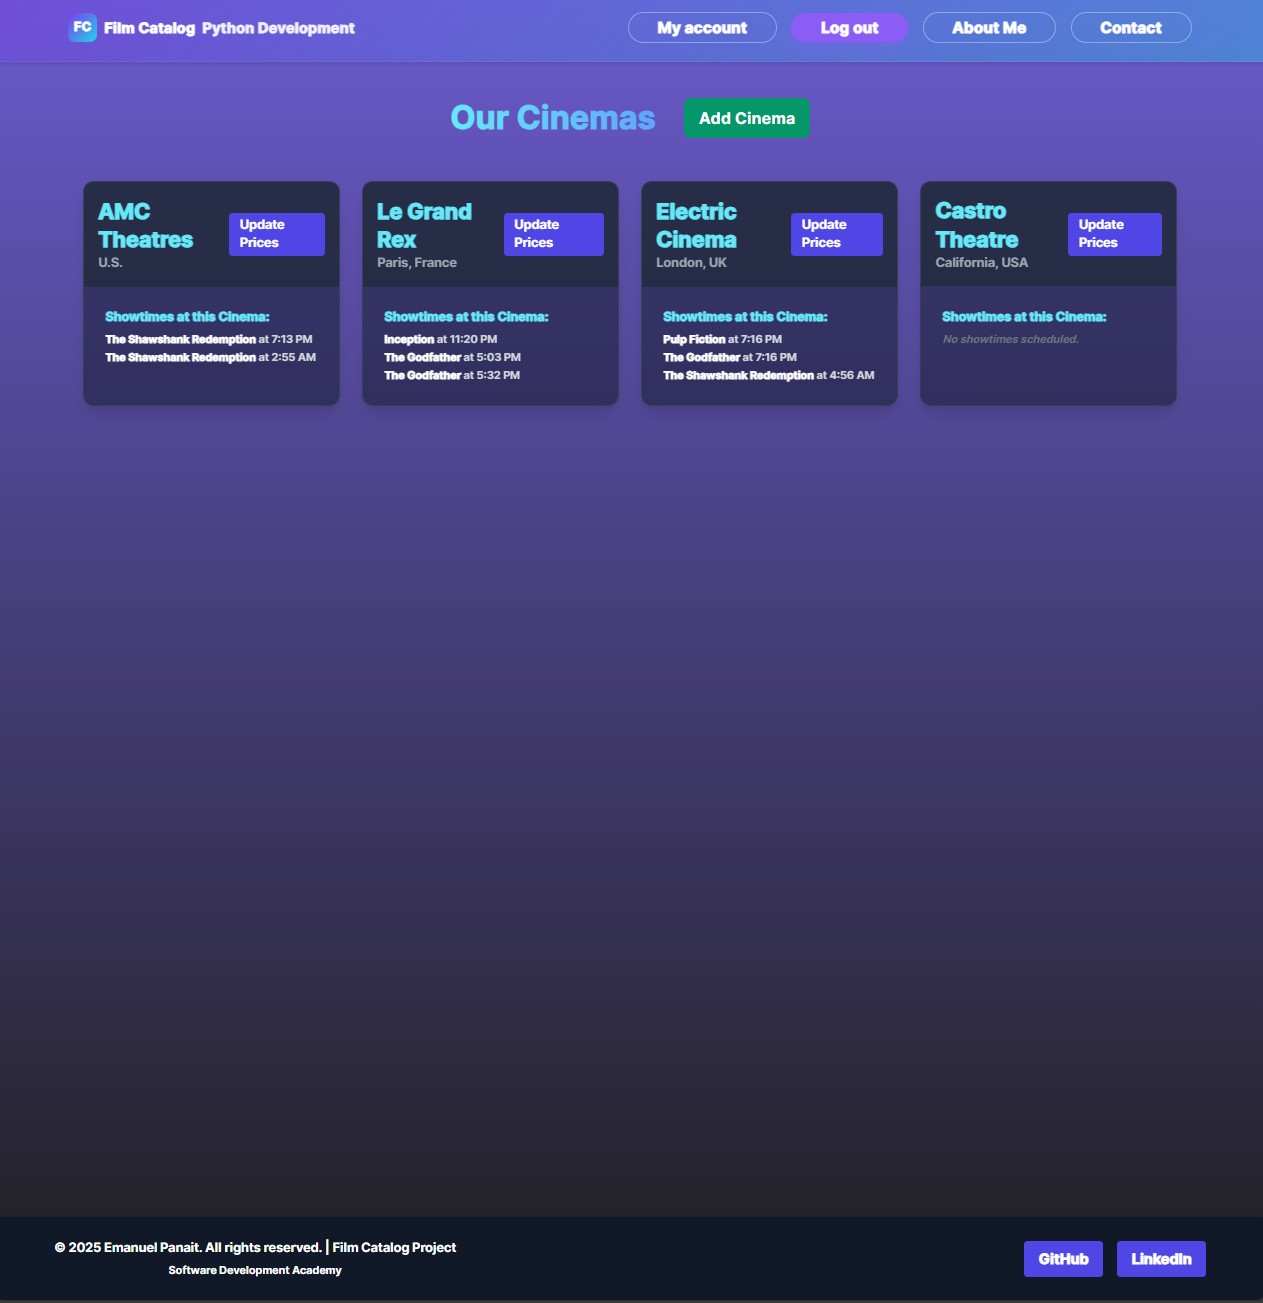
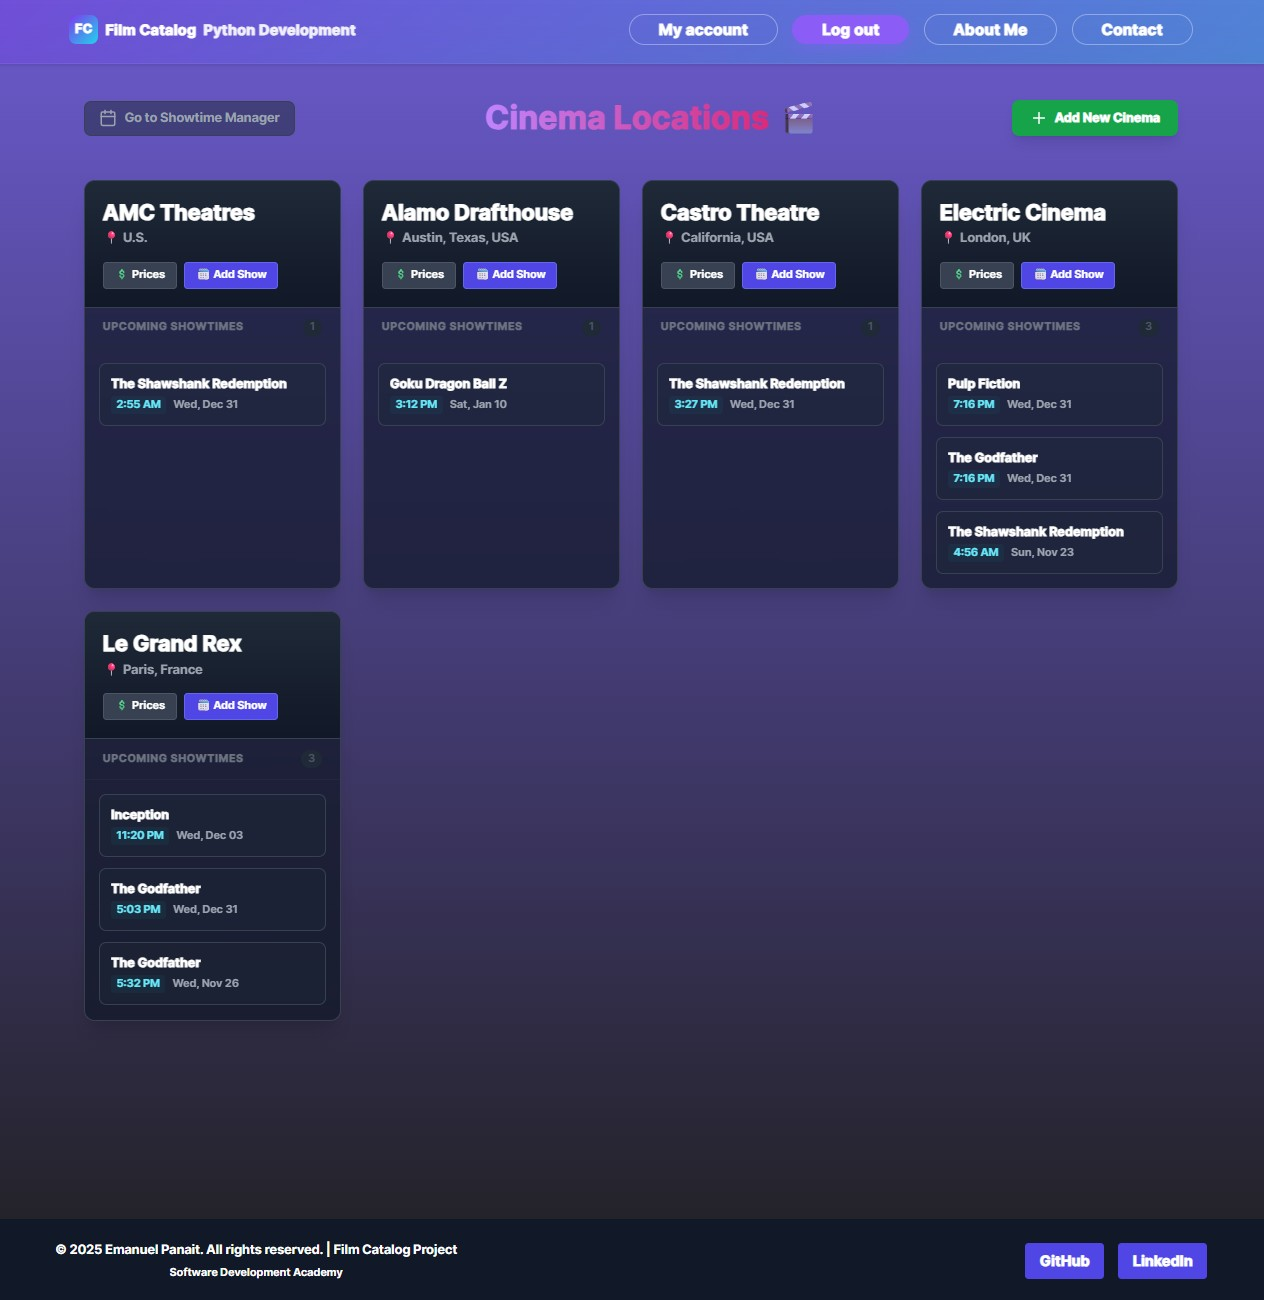
Updated Cinemas section

diff --git a/viewer/Templates/cinemas/cinema_list.html b/viewer/Templates/cinemas/cinema_list.html
@@ -22,20 +22,35 @@
 </style>
 
 <div class="w-full max-w-screen-xl mx-auto px-2 sm:px-4 md:px-8 py-10">
-
-    <div class="flex flex-col sm:flex-row items-center justify-center gap-4 mb-12">
-        <h1 class="text-4xl font-extrabold text-white text-center">
-            <span class='bg-clip-text bg-gradient-to-r from-cyan-300 to-blue-400 text-transparent'>Our Cinemas</span>
-        </h1>
+    
+    <div class="flex flex-col md:flex-row items-center justify-between gap-6 mb-12">
         
+        <a href="{% url 'viewer:showtime_create' %}" class="flex items-center gap-2 px-4 py-2 text-sm font-medium text-gray-400 bg-gray-800/50 hover:bg-gray-700 hover:text-white rounded-lg border border-gray-700 transition-all duration-200">
+            <svg xmlns="http://www.w3.org/2000/svg" width="20" height="20" viewBox="0 0 24 24" fill="none" stroke="currentColor" stroke-width="2" stroke-linecap="round" stroke-linejoin="round">
+                <rect x="3" y="4" width="18" height="18" rx="2" ry="2"></rect>
+                <line x1="16" y1="2" x2="16" y2="6"></line>
+                <line x1="8" y1="2" x2="8" y2="6"></line>
+                <line x1="3" y1="10" x2="21" y2="10"></line>
+            </svg>
+            Go to Showtime Manager
+        </a>
+
+        <h1 class="text-4xl font-extrabold text-white text-center">
+            <span class='bg-clip-text text-transparent bg-gradient-to-r from-purple-400 to-pink-600'>
+                Cinema Locations
+            </span> 🎬
+        </h1>
+
         {% if user.is_staff %}
-            <a href="{% url 'viewer:cinema-add' %}" class="bg-emerald-600 text-white px-4 py-2 rounded-lg hover:bg-emerald-700 transition text-lg font-medium ml-4 shadow-lg shadow-emerald-900/20">
-                + Add Cinema
-            </a>
-            <a href="{% url 'viewer:showtime_list' %}" class="bg-indigo-600 text-white px-4 py-2 rounded-lg hover:bg-indigo-700 transition text-lg font-medium shadow-lg shadow-indigo-900/20">
-                Manage All Showtimes
-            </a>
-        {% endif %}
+        <a href="{% url 'viewer:cinema-add' %}" class="flex items-center gap-2 px-5 py-2.5 text-sm font-bold text-white bg-green-600 hover:bg-green-700 rounded-lg shadow-lg hover:shadow-green-500/30 transition-all duration-200 transform hover:-translate-y-0.5">
+            <svg xmlns="http://www.w3.org/2000/svg" width="20" height="20" viewBox="0 0 24 24" fill="none" stroke="currentColor" stroke-width="2" stroke-linecap="round" stroke-linejoin="round">
+                <line x1="12" y1="5" x2="12" y2="19"></line>
+                <line x1="5" y1="12" x2="19" y2="12"></line>
+            </svg>
+            Add New Cinema
+        </a>
+        {% else %}
+        <div class="w-32"></div> {% endif %}
     </div>
 
     <div class="grid grid-cols-1 sm:grid-cols-2 lg:grid-cols-3 xl:grid-cols-4 gap-6 mt-8">
@@ -109,7 +124,7 @@
                             <div class="text-center py-4">
                                 <p class="text-sm text-gray-500 italic">No showtimes scheduled.</p>
                                 {% if user.is_staff %}
-                                    <a href="{% url 'viewer:showtime_create' %}" class="text-xs text-indigo-400 hover:text-indigo-300 mt-1 inline-block">
+                                    <a href="{% url 'viewer:showtime_create' %}?cinema={{ cinema.id }}" class="text-xs text-indigo-400 hover:text-indigo-300 mt-1 inline-block">
                                         Schedule one now?
                                     </a>
                                 {% endif %}
@@ -120,15 +135,14 @@
                 
             </div>
         {% empty %}
-            <p class="text-white col-span-full text-center text-xl mt-10">No cinemas have been added yet.</p>
+            <div class="col-span-full flex flex-col items-center justify-center pt-20">
+                <p class="text-gray-400 text-xl mb-4">No cinemas have been added yet.</p>
+                {% if user.is_staff %}
+                <a href="{% url 'viewer:cinema-add' %}" class="text-indigo-400 hover:text-white underline">Add your first Cinema</a>
+                {% endif %}
+            </div>
         {% endfor %}
     </div>
 
 </div>
 {% endblock %}
-                    {% if form.location.errors %}<div class="text-red-400 text-sm mt-1">{{ form.location.errors }}</div>{% endif %}
-                </div>
-                <div>
-                    <label for="{{ form.capacity.id_for_label }}" class="block text-sm font-medium text-gray-300 mb-2">{{ form.capacity.label }}</label>
-                    {{ form.capacity|add_class:"form-control" }}
-                    {% if form.capacity.errors %}<div class="text-red-400 text-sm mt-1">{{ form.capacity.errors }}</div>{% endif %}

diff --git a/viewer/Templates/add_showtime.html b/viewer/Templates/add_showtime.html
@@ -12,27 +12,27 @@
 
 {% block content %}
 <style>
-    /* ... (Stilurile dvs. existente sunt perfecte) ... */
+    /* ... (Your existing styles) ... */
     .form-control {
         width: 100%;
         padding: 10px 14px;
-        border-radius: 8px; /* rounded-lg */
-        border: 1px solid #4B5563; /* border-gray-600 */
-        background-color: #374151; /* bg-gray-700 */
-        color: #FFFFFF; /* text-white */
+        border-radius: 8px; 
+        border: 1px solid #4B5563; 
+        background-color: #374151; 
+        color: #FFFFFF; 
         transition: all 0.15s ease;
     }
     .form-control:focus {
         outline: none;
-        border-color: #6366F1; /* focus:ring-indigo-500 */
-        box-shadow: 0 0 0 3px rgba(99, 102, 241, 0.4); /* focus:ring-2 */
+        border-color: #6366F1; 
+        box-shadow: 0 0 0 3px rgba(99, 102, 241, 0.4); 
     }
     input[type="datetime-local"].form-control,
-    input[type="date"].form-control { /* <-- Am adăugat și input[type="date"] pentru filtru */
+    input[type="date"].form-control { 
         color-scheme: dark;
     }
 
-    /* */
+    /* Filter Styles */
     .filter-input {
         background-color: #374151;
         border: 1px solid #4B5563;
@@ -63,22 +63,30 @@
         color: white;
     }
     .filter-btn-clear:hover { background-color: #374151; } /* gray-700 */
-    /* */
-
 </style>
 
 <div class="w-full max-w-screen-xl mx-auto px-2 sm:px-4 md:px-8 py-10">
-    <div class="flex flex-col sm:flex-row items-center justify-center gap-4 mb-12">
+    
+    <div class="relative flex flex-col sm:flex-row items-center justify-center gap-4 mb-12">
+        
+        <a href="{% url 'viewer:cinema-list' %}" class="sm:absolute sm:left-0 flex items-center gap-2 px-4 py-2 text-sm font-medium text-gray-400 bg-gray-800/50 hover:bg-gray-700 hover:text-white rounded-lg border border-gray-700 transition-all duration-200">
+            <svg xmlns="http://www.w3.org/2000/svg" width="20" height="20" viewBox="0 0 24 24" fill="none" stroke="currentColor" stroke-width="2" stroke-linecap="round" stroke-linejoin="round">
+                <path d="m15 18-6-6 6-6"/>
+            </svg>
+            Back to Cinemas
+        </a>
+
         <h1 class="text-4xl font-extrabold text-white text-center">
             <span class='bg-clip-text text-transparent bg-gradient-to-r from-sky-300 to-blue-400'>
                 {% if object %}
                     Update Showtime
                 {% else %}
-                    Add a New Showtime
+                    Showtime Manager
                 {% endif %}
             </span> 🗓
         </h1>
     </div>
+
     <div class="max-w-2xl mx-auto bg-gray-900/50 backdrop-blur-md rounded-xl shadow-lg overflow-hidden border border-gray-700 mb-16">
         
         <form method="post" class="p-6 sm:p-8 space-y-6">
@@ -114,9 +122,11 @@
                             Add New
                         </a>
                     {% endif %}
-                    <a href="{% url 'viewer:showtime_create' %}" class="text-center bg-gray-600 text-white px-6 py-2 rounded-lg hover:bg-gray-700 transition font-medium">
+                    
+                    <a href="{% url 'viewer:cinema-list' %}" class="text-center bg-gray-600 text-white px-6 py-2 rounded-lg hover:bg-gray-700 transition font-medium">
                         Cancel
                     </a>
+
                     <button type="submit" class="bg-indigo-600 text-white font-semibold px-6 py-2 rounded-lg hover:bg-indigo-700 transition">
                         {% if object %}
                             Update Showtime

diff --git a/viewer/Templates/movie_list.html b/viewer/Templates/movie_list.html
@@ -44,7 +44,7 @@
         
         <a href="{% url 'viewer:movie-add' %}" class="bg-teal-500 text-white px-2 py-1 rounded text-lg hover:bg-teal-600">Add Movie</a>
         <a href="{% url 'viewer:showtime_create' %}" class="bg-cyan-500 text-white px-2 py-1 rounded text-lg hover:bg-cyan-600">Showtime Manager</a>
-        <a href="{% url 'viewer:cinema-list' %}" class="bg-indigo-500 text-white px-2 py-1 rounded text-lg hover:bg-indigo-600">View Cinemas</a>
+        <a href="{% url 'viewer:cinema-list' %}" class="bg-indigo-500 text-white px-2 py-1 rounded text-lg hover:bg-indigo-600">Browse Cinemas</a>
         
         
         {% endif %}

diff --git a/viewer/views.py b/viewer/views.py
@@ -245,12 +245,34 @@ class ShowtimeDetailView(DetailView):
     template_name = 'showtime_detail.html'
     context_object_name = 'showtime'
 
+from django.urls import reverse_lazy
+from django.views.generic import CreateView
+from django.core.paginator import Paginator
+from .models import Showtime
+from .forms import ShowtimeForm
+
 class ShowtimeCreateView(CreateView):
     """ Pagina 'Showtime Manager' - creează și listează showtimes. """
     model = Showtime
     form_class = ShowtimeForm
     template_name = 'add_showtime.html'
-    success_url = reverse_lazy('viewer:showtime_create') # Corectat
+    success_url = reverse_lazy('viewer:showtime_create') 
+
+    # --- 🟢 ADD THIS METHOD HERE ---
+    def get_initial(self):
+        """
+        Pre-selects the Cinema if 'cinema' is in the URL (e.g., ?cinema=5).
+        """
+        initial = super().get_initial()
+        # Get the cinema ID from the URL parameters
+        cinema_id = self.request.GET.get('cinema')
+        
+        # If the ID exists, set it as the initial value for the 'cinema' field
+        if cinema_id:
+            initial['cinema'] = cinema_id
+            
+        return initial
+    # -------------------------------
 
     def get_context_data(self, **kwargs):
         context = super().get_context_data(**kwargs)
@@ -260,6 +282,7 @@ class ShowtimeCreateView(CreateView):
         movie_filter = self.request.GET.get('movie_filter', None)
         cinema_filter = self.request.GET.get('cinema_filter', None)
         date_filter = self.request.GET.get('date_filter', None)
+
         if movie_filter:
             showtime_list = showtime_list.filter(movie__title__icontains=movie_filter)
         if cinema_filter:
